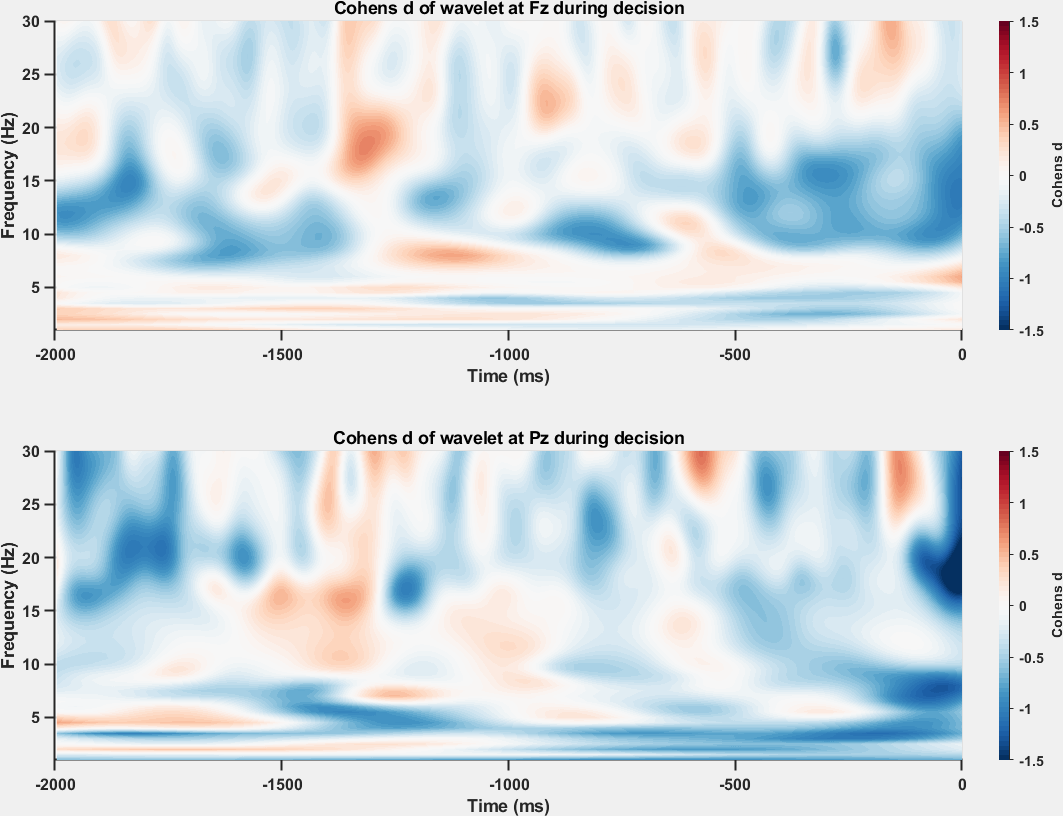
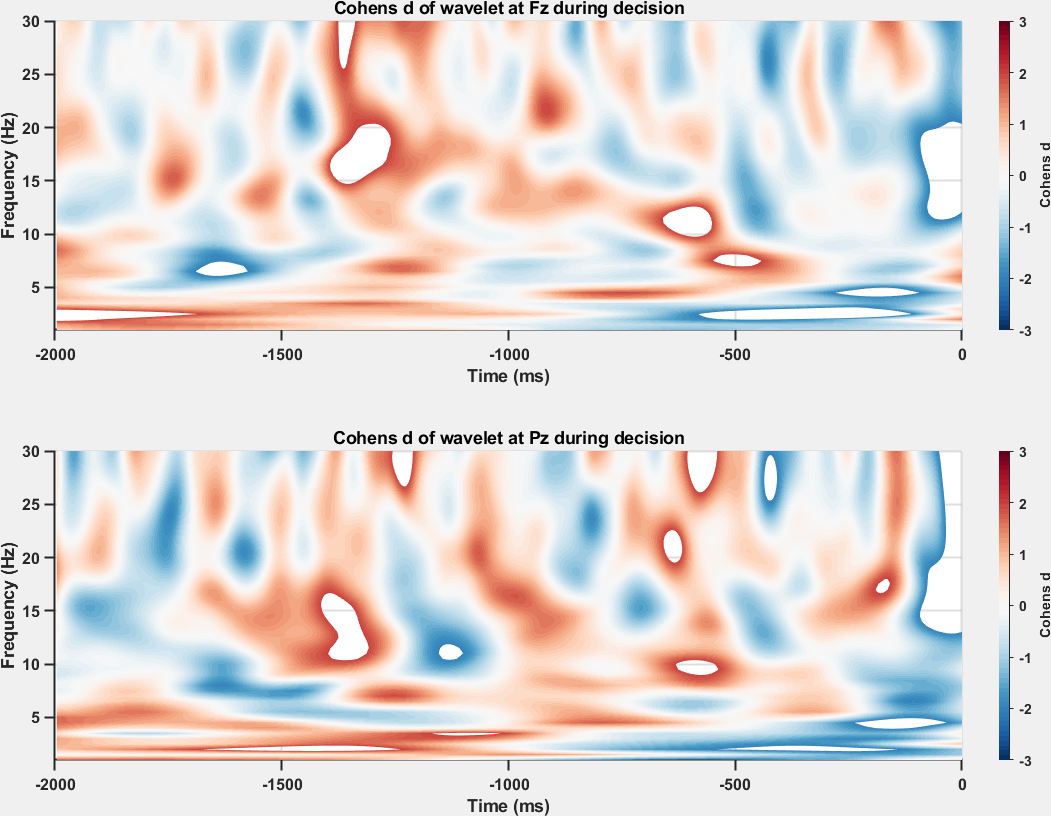
Normalized all data

diff --git a/Tron/TronWAV.m b/Tron/TronWAV.m
@@ -43,18 +43,14 @@ for a = 1:2
     if a == 1
         cd(master_dir);
         load(t_name);
-    elseif a == 2
-        cd(master_dir);
-        load(d_name);
-    end
-    
-    if a == 1
         cd(temp_dir);
         analysis = 'template';
         time_points = time_points1;
         time_count = time_count1;
         save_dir = tsave_dir;
     elseif a == 2
+        cd(master_dir);
+        load(d_name);
         cd(dec_dir);
         analysis = 'decision';
         time_points = time_points2;
@@ -104,7 +100,7 @@ for a = 1:2
         artifacts(b,2) = mean(cell2mat(sub_data.WAV.nRejected));
     end
     
-    dispstat('Finished.','keepprev');
+    dispstat('Finished','keepprev');
     summary.artifacts = artifacts;
     
     clearvars artifacts b c c_index chan_loc d e sub_data;
@@ -117,30 +113,38 @@ for a = 1:2
         end
     end
     
-    summary.raw = raw_data;
+    clearvars b c temp_data;
     
-    clearvars b c raw_data;
-    
-    disp(['Combining ' analysis ' wavelet data by condition']);
-    
-    for b = 1:cond_count
-        % Data is collapsed between subjects to create condition averages
-        for c = 1:chan_count
-            for d = 1:file_num
-                temp_sum(d,:,:) = temp_data{d}{b}(c,:,:);
+    for b = 1:size(raw_data,1)        
+        for c = 1:size(raw_data,2)
+            for d = 1:size(raw_data,4)                
+                for e = 1:size(raw_data,5)
+                    temp_data = squeeze(raw_data(b,c,:,d,e));
+                    temp_stdev = std(squeeze(temp_data));
+                    temp_mean = mean(squeeze(temp_data));
+                    temp_z = (temp_data - temp_mean) ./ temp_stdev;
+                    norm_data(b,c,:,d,e) = temp_z;
+                end
             end
-            sum_data{b}(c,:,:) = nanmean(temp_sum(:,:,:));
         end
     end
     
-    summary.data = sum_data;
+    summary.raw = norm_data;
     
-    clearvars b c d temp_sum;
+    clearvars b c d e raw_data temp_data temp_mean temp_std temp_z;
+    
+    disp(['Combining ' analysis ' wavelet data by condition']);
+    
+    mean_data = squeeze(mean(summary.raw,5));
+    
+    summary.data = mean_data;
+    
+    clearvars mean_data;
     
     dispstat('','init');
     dispstat(sprintf(['Calculating Cohens d between no conflict and high conflict ' analysis ' conditions. Please wait...']),'keepthis');
     
-    for b = 1:chan_count
+    for b = 1:size(summary.raw,1)
         if b == 1
             perc_last = 0;
             dispstat(sprintf('Progress %d%%',0))
@@ -154,24 +158,22 @@ for a = 1:2
         
         perc_last = perc_stat;
         
-        for c = 1:freq_count
-            for d = 1:time_count
-                for e = 1:file_num
-                    t_data(1,e) = temp_data{e}{1}(b,c,d);
-                    t_data(2,e) = temp_data{e}{3}(b,c,d);
-                end
-                
-                stdev(1) = std(t_data(1,:));
-                stdev(2) = std(t_data(2,:));
-                m_data(1) = mean(t_data(1,:));
-                m_data(2) = mean(t_data(2,:));
-                pool_stdev = sqrt(((stdev(1)^2)+(stdev(2)^2))/(file_num-2));
-                cohen(b,c,d) = (m_data(2)-m_data(1))/pool_stdev;
+        for c = 1:size(summary.raw,2)
+            for d = 1:size(summary.raw,3)
+                temp_data(1,:) = squeeze(summary.raw(b,c,d,1,:));
+                temp_data(2,:) = squeeze(summary.raw(b,c,d,3,:));
+                stdev(1) = std(temp_data(1,:));
+                stdev(2) = std(temp_data(2,:));
+                m_data(1) = mean(temp_data(1,:));
+                m_data(2) = mean(temp_data(2,:));
+                pool_stdev = sqrt(((stdev(1)^2) + (stdev(2)^2)) /...
+                    (size(summary.raw,5) - 2));
+                cohen(b,c,d) = (m_data(2) - m_data(1)) / pool_stdev;
             end
         end
     end
     
-    dispstat('Finished.','keepprev');
+    dispstat('Finished','keepprev');
     summary.cohen = cohen;
     
     clearvars b c cohen d e m_data num pool_stdev std t_data temp_data;

diff --git a/Plot/PlotWAV.m b/Plot/PlotWAV.m
@@ -9,7 +9,7 @@ prefix = 'MedEdFlynn_';
 chan_name1 = 'Fz';
 chan_name2 = 'Pz';
 d_name = 'med_ed_wav.mat'; % Name of master data file
-wav_limits = [-1.5 1.5];
+wav_limits = [-1 1];
 cond1 = 1;
 cond2 = 3;
 comp = getenv('computername');
@@ -47,7 +47,7 @@ disp('Plotting wavelets');
 colors = cbrewer('div','RdBu',64,'PCHIP');
 colors = flipud(colors);
 
-for a = 2:2
+for a = 1:2
     if a == 1
         cd(master_dir);
         load('med_ed_twav.mat');
@@ -75,41 +75,41 @@ for a = 2:2
     end
     
     % Theta highlight
-    wav_wind1 = [min(t_wind1) min(f_wind1) 2;...
-        max(t_wind1) min(f_wind1) 2;...
-        max(t_wind1) max(f_wind1) 2;...
-        min(t_wind1) max(f_wind1) 2];
-    
-    % Alpha highlight
-    wav_wind2 = [min(t_wind2) min(f_wind2) 2;...
-        max(t_wind2) min(f_wind2) 2;...
-        max(t_wind2) max(f_wind2) 2;...
-        min(t_wind2) max(f_wind2) 2];
+%     wav_wind1 = [min(t_wind1) min(f_wind1) 2;...
+%         max(t_wind1) min(f_wind1) 2;...
+%         max(t_wind1) max(f_wind1) 2;...
+%         min(t_wind1) max(f_wind1) 2];
+%     
+%     % Alpha highlight
+%     wav_wind2 = [min(t_wind2) min(f_wind2) 2;...
+%         max(t_wind2) min(f_wind2) 2;...
+%         max(t_wind2) max(f_wind2) 2;...
+%         min(t_wind2) max(f_wind2) 2];
     
     for b = 1:2
         if b == 1
             c_index = find(chan_loc == 1);
-            shade_x = [wav_wind1(1,1) wav_wind1(2,1) wav_wind1(3,1) wav_wind1(4,1)];
-            shade_y = [wav_wind1(1,2) wav_wind1(2,2) wav_wind1(3,2) wav_wind1(4,2)];
-            shade_z = [wav_wind1(1,3) wav_wind1(2,3) wav_wind1(3,3) wav_wind1(4,3)];
+%             shade_x = [wav_wind1(1,1) wav_wind1(2,1) wav_wind1(3,1) wav_wind1(4,1)];
+%             shade_y = [wav_wind1(1,2) wav_wind1(2,2) wav_wind1(3,2) wav_wind1(4,2)];
+%             shade_z = [wav_wind1(1,3) wav_wind1(2,3) wav_wind1(3,3) wav_wind1(4,3)];
             chan_name = chan_name1;
         elseif b == 2
             c_index = find(chan_loc == 2);
-            shade_x = [wav_wind2(1,1) wav_wind2(2,1) wav_wind2(3,1) wav_wind2(4,1)];
-            shade_y = [wav_wind2(1,2) wav_wind2(2,2) wav_wind2(3,2) wav_wind2(4,2)];
-            shade_z = [wav_wind2(1,3) wav_wind2(2,3) wav_wind2(3,3) wav_wind2(4,3)];
+%             shade_x = [wav_wind2(1,1) wav_wind2(2,1) wav_wind2(3,1) wav_wind2(4,1)];
+%             shade_y = [wav_wind2(1,2) wav_wind2(2,2) wav_wind2(3,2) wav_wind2(4,2)];
+%             shade_z = [wav_wind2(1,3) wav_wind2(2,3) wav_wind2(3,3) wav_wind2(4,3)];
             chan_name = chan_name2;
         end
         
-        plotdata = squeeze(summary.data{cond2}(c_index,:,:)) - squeeze(summary.data{cond1}(c_index,:,:));
+        plotdata = squeeze(summary.data(c_index,:,:,3)) - squeeze(summary.data(c_index,:,:,1));
         freq = summary.freq;
         time = summary.time;
         
         subplot(2,1,b);
         s = surf(time,freq,plotdata);
-        hold on
-        shade = fill3(shade_x,shade_y,shade_z,0);
-        hold off
+%         hold on
+%         shade = fill3(shade_x,shade_y,shade_z,0);
+%         hold off
         
         title(['Difference wavelet for ' chan_name ' during ' analysis]);
         set(gca,'ydir','normal');

diff --git a/TEST.m b/TEST.m
@@ -57,19 +57,13 @@ for a = 1:2
             c_index = find(chan_loc == 2);
         end
         
-        chan_data(:,:) = diff_data(c_index,:,:);
-        
-        for c = 1:size(chan_data,1)
-            freq_data = transpose(chan_data(c,:));
-            
-            [idx,C] = kmeans(freq_data,clust_count,...
-                'Distance','sqeuclidean',...
-                'MaxIter',100);
-            
-            freq_clust(c,:) = transpose(idx);
-        end
-        
-        chan_clust(b,:,:) = freq_clust(:,:);
+        chan_data(:,:) = transpose(squeeze(diff_data(c_index,:,:)));
+        [idx,C] = kmeans(chan_data,clust_count,...
+            'Distance','cityblock',...
+            'Display','final',...
+            'Replicates',100,...
+            'MaxIter',100);
+        chan_clust(b,:,:) = idx;
     end
     
     clusters.(analysis) = chan_clust;
@@ -82,3 +76,34 @@ clearvars a analysis b c C c_index chan_clust chan_data data freq_clust freq_dat
 
 %% Plot data
 colors = cbrewer('qual','Dark2',clust_count);
+figure;
+
+for a = 1:2
+    if a == 1
+        analysis = 'template';
+        c = 0;
+    elseif a == 2
+        analysis = 'decision';
+        c = 2;
+    end
+    
+    for b = 1:2
+        if b == 1
+            chan_name = 'Fz';
+            c_index = find(chan_loc == 1);
+        elseif b == 2
+            chan_name = 'Pz';
+            c_index = find(chan_loc == 2);
+        end
+        
+        plotdata = transpose(squeeze(mean(summary.(analysis).data(c_index,1:29,:,2,:),5)-mean(summary.template.data(c_index,1:29,:,1,:),5)));
+        kdata = squeeze(clusters.(analysis)(b,:));
+        
+        subplot(2,2,b+c)
+        [silh3,h] = silhouette(plotdata,kdata,'cityblock');
+        
+        avgsil = mean(silh3);
+        disp(avgsil);
+    end
+end
+

diff --git a/Test3.m b/Test3.m
@@ -1,0 +1,15 @@
+pcadata = summary.template.data;
+load('C:\Users\Jordan\Documents\MATLAB\Data\MedEd\chanlocs.mat','chanlocs');
+%pcadata = squeeze(pcadata(:,:,:,:,:));
+pcadata = squeeze(pcadata(:,9,:,:,:));
+%pcadata = reshape(pcadata,62,29500,2,30);
+%pcadata = permute(pcadata,[2 1 3 4]);
+time = summary.template.time;
+
+cd('C:\Users\Jordan\Documents\MATLAB\MATLAB-EEG-PCA-Toolbox');
+
+[PCAResults] = spatialPCA(pcadata,chanlocs,'VMAX',5);
+[PCAResults] = temporalPCA(pcadata,time,'VMAX',5);
+
+
+[PCAResults STPCAResults] = spatialTemporalPCA(pcadata,chanlocs,time,'VMAX','VMAX',5);

diff --git a/Plot/PlotCohensD.m b/Plot/PlotCohensD.m
@@ -10,7 +10,7 @@ chan_name2 = 'Pz';
 t_name = 'med_ed_twav.mat'; % Name of master data file
 d_name = 'med_ed_dwav.mat'; % Name of master data file
 significance = 0.05;
-wav_limits = [-1.5 1.5];
+wav_limits = [-3 3];
 cond1 = 1;
 cond2 = 3;
 comp = getenv('computername');
@@ -82,6 +82,7 @@ for a = 1:2
         end
         
         plotdata = squeeze(summary.cohen(c_index,:,:));
+        
         
         subplot(2,1,b);
         s = surf(summary.time,summary.freq,plotdata);

diff --git a/Plot/PlotCondWAV.m b/Plot/PlotCondWAV.m
@@ -74,8 +74,8 @@ for a = 1:2
             chan_name = chan_name2;
         end
         
-        tempdata1 = squeeze(summary.data{cond1}(c_index,:,:));
-        tempdata2 = squeeze(summary.data{cond2}(c_index,:,:));
+        tempdata1 = squeeze(summary.data(c_index,:,:,1));
+        tempdata2 = squeeze(summary.data(c_index,:,:,3));
         diffdata = tempdata2 - tempdata1;
         freq = summary.freq;
         time = summary.time;

diff --git a/Test2.m b/Test2.m
@@ -109,11 +109,11 @@ analysis = 'decision';
 if analysis == 'template'
     x_lim = [0 1996];
     x_tick = [0 500 1000 1500 2000];
-    index = 2;
+    index = 3;
 elseif analysis == 'decision'
     x_lim = [-1996 0];
     x_tick = [-2000 -1500 -1000 -500 0];
-    index = 4;
+    index = 3;
 end
 
 [theta_row, theta_col] = find(squeeze(clusters.(analysis).index(1,:,:)) == index);

diff --git a/Tron/TronPermTest.m b/Tron/TronPermTest.m
@@ -44,7 +44,7 @@ for a = 1:2
    
     freq_point = linspace(1,15,29);
     
-    for b = 1:62
+    for b = [28,53]
         %% Statistics via permutation testing
         WAV_data = squeeze(summary.raw(b,1:29,:,[1,3],:));
         WAV_data1 = permute(squeeze(WAV_data(:,:,1,:)),[3,1,2]);
